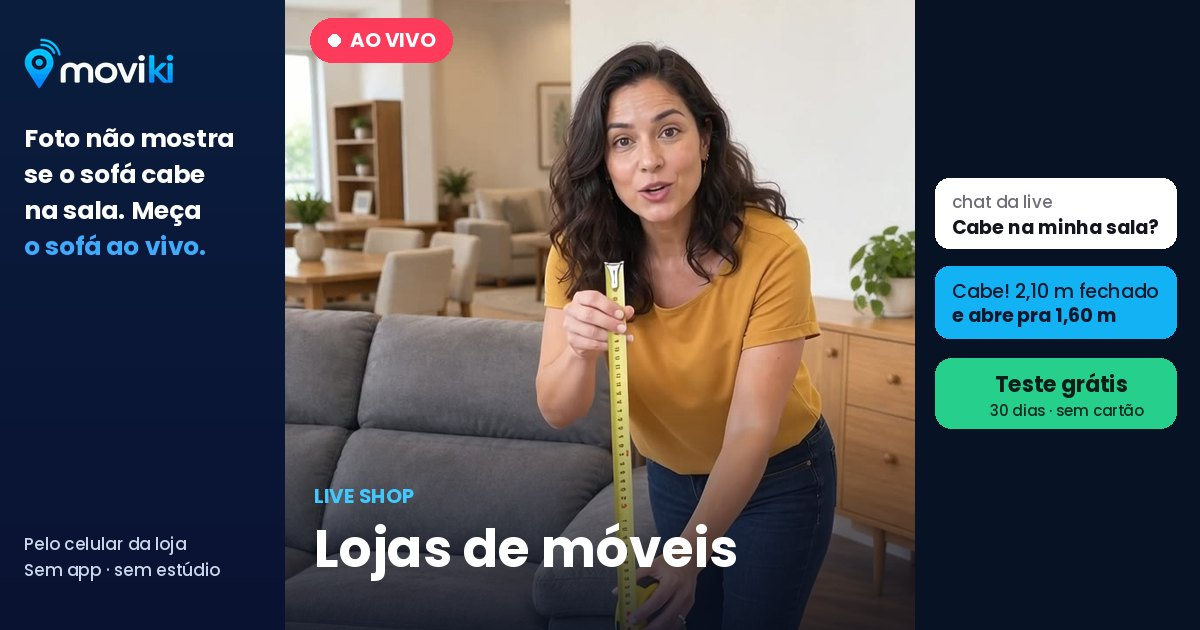
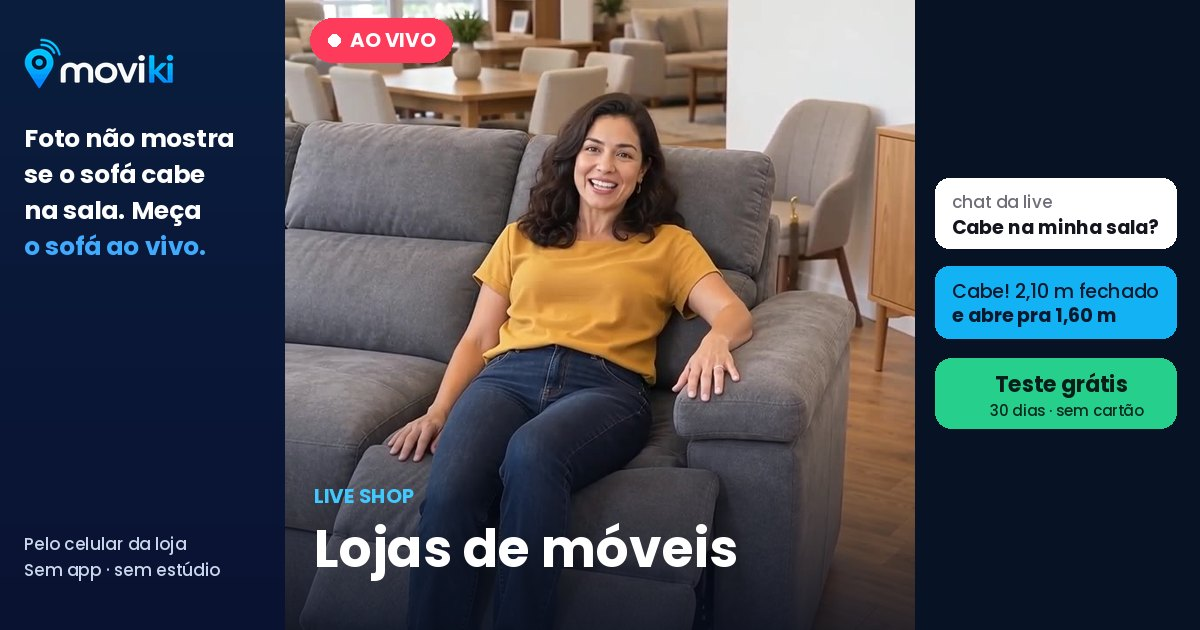
Miniatura do WhatsApp de moveis: vendedora sentada no sofa; V novo para recarregar
Claude-Session: https://claude.ai/code/session_012QhwpiN4n1rfdfoaoV4iks

diff --git a/api/aovivo-og.js b/api/aovivo-og.js
@@ -1,6 +1,7 @@
 /*!
- * MOVIKI api/aovivo-og.js | versao 2026-11-05-og-moveis | repo: moviki (site publico)
- * 2026-11-05: ramo moveis (og/aovivo/moveis.jpg).
+ * MOVIKI api/aovivo-og.js | versao 2026-11-05-og-moveis2 | repo: moviki (site publico)
+ * 2026-11-05 (noite): miniatura nova de moveis (vendedora sentada no sofa; a da trena foi reprovada) e V novo para o WhatsApp buscar a imagem de novo.
+ * Antes: 2026-11-05-og-moveis (ramo moveis, og/aovivo/moveis.jpg).
  * Antes: 2026-11-05-og-bolsas (ramo bolsas); 2026-10-29-og-hamburgueria; 2026-10-16-og-parceiro; antes 2026-10-16-og-ramos.
  *
  * POR QUE EXISTE
@@ -31,7 +32,7 @@ const fs = require('fs');
 const path = require('path');
 const R=[{"k":"farmacia","a":["farm","drog"],"s":"Para farmácias e drogarias","h":["A rede grande abriu na esquina.","Seu cliente de sempre ","volta pela live","."]},{"k":"perfumaria","a":["perfum"],"s":"Para perfumarias","h":["Perfume não tem cheiro na foto.","Ele tem ","a sua voz, ao vivo","."]},{"k":"cosmeticos","a":["cosmet","beleza","maquiag"],"s":"Para lojas de cosméticos e perfumaria","h":["Sua cliente já assiste live de maquiagem.","Que seja ","a da sua loja","."]},{"k":"boutique","a":["boutique"],"s":"Para boutiques de bairro","h":["Arara cheia de peça nova e a rua vazia.","Suas clientes ","estão no celular","."]},{"k":"brecho","a":["brecho"],"s":"Para brechós","h":["Peça única na arara.","Mostre ao vivo e ","quem pagar primeiro leva","."]},{"k":"lingerie","a":["linger","intim","pijam"],"s":"Para lojas de moda íntima","h":["Presente de Réveillon, peça no cabide.","Mostre ","o tecido de perto, ao vivo","."]},{"k":"moda-fitness","a":["legging","academ"],"s":"Para lojas de moda fitness","h":["Tecido que só convence de perto.","Mostre ","a costura ao vivo","."]},{"k":"moda-infantil","a":[],"s":"Para lojas de moda infantil","h":["Roupa de festa infantil só vende no provador.","Mostre ","a peça aberta, ao vivo","."]},{"k":"moda-praia","a":["praia","biquin","bikin"],"s":"Para lojas de moda praia","h":["Verão chegando e a moda praia na arara.","Mostre ","a estampa ao vivo","."]},{"k":"moda-masculina","a":["masculin"],"s":"Para lojas de moda masculina","h":["Camisa boa na arara e a loja sem movimento.","Seu cliente de sempre ","está no celular","."]},{"k":"moda","a":["moda","roupa","vestu"],"s":"Para lojas de moda","h":["O corredor anda vazio no meio da semana.","Sua cliente está ","no celular, no sofá","."]},{"k":"suplementos","a":["suplement","fitness","nutri","whey"],"s":"Para lojas de suplementos","h":["Seu cliente compara sabor e preço no celular.","Mostre ","o pote ao vivo","."]},{"k":"pet","a":["pet"],"s":"Para pet shops","h":["O tutor está no sofá, com o pet no colo.","Mostre ","a roupinha ao vivo","."]},{"k":"brinquedos","a":["brinq"],"s":"Para lojas de brinquedos","h":["Brinquedo parado na prateleira.","Mostre ele ","funcionando, ao vivo","."]},{"k":"bebe","a":["bebe","infantil","kids"],"s":"Para lojas de bebê e infantil","h":["Quem monta o enxoval pesquisa pelo celular.","Mostre ","o tecido ao vivo","."]},{"k":"calcados","a":["calcad","sapat"],"s":"Para lojas de calçados","h":["Chegou a numeração que faltava.","Avise ","ao vivo","."]},{"k":"esportes","a":["esport","tenis"],"s":"Para lojas de calçados e esportes","h":["Tênis parado na vitrine.","Seu cliente está ","procurando no celular","."]},{"k":"hamburgueria","a":["hamburg","burg","smash"],"s":"Para hamburguerias","h":["Hambúrguer bonito na chapa e ninguém vê.","Mostre ","o lanche saindo, ao vivo","."]},{"k":"acai","a":["acai","lanch","sorvet"],"s":"Para açaí e lanchonetes","h":["O aplicativo leva uma fatia de cada pedido.","Venda ","direto, ao vivo","."]},{"k":"confeitaria","a":["confeit","doceria","bolo"],"s":"Para confeitarias","h":["O bolo mais bonito do bairro.","Mostre ","a fatia ao vivo","."]},{"k":"acessorios-celular","a":["acessorio","celular","capinha"],"s":"Para lojas de acessórios de celular","h":["Ele vê a capinha no balcão e compra pela internet.","Venda ","antes, ao vivo","."]},{"k":"semijoias","a":["semijoia","joia","relog"],"s":"Para lojas de semijoias","h":["Presente de Natal escolhido pelo celular.","Que seja ","na sua loja, ao vivo","."]},{"k":"bijuteria","a":["bijut"],"s":"Para lojas de bijuteria e acessórios","h":["Ninguém entra pra ver o brilho de perto.","Leve ","o brilho até ela","."]},{"k":"bolsas","a":["bolsa","mochil"],"s":"Para lojas de bolsas","h":["Bolsa na foto não mostra o que cabe dentro.","Abra ","a bolsa ao vivo","."]},{"k":"autopecas","a":["autopeca","autopecas","motopeca","pecas"],"s":"Para lojas de autopeças","h":["Três ligações pra saber se tem a peça.","Mostre ","na mão, ao vivo","."]},{"k":"sertanejos","a":["sertanej","nordestin","regionai"],"s":"Para produtos sertanejos","h":["O supermercado agora vende queijo coalho.","Seu freguês de sempre ","compra pela live","."]},{"k":"emporio","a":["emporio","queij","frios"],"s":"Para empórios","h":["Cesta de Natal montada. Pedido por telefone.","Monte ","a cesta ao vivo","."]},{"k":"naturais","a":["natura","granel"],"s":"Para empórios de produtos naturais","h":["Chegou novidade no granel.","Conte ","ao bairro inteiro, ao vivo","."]},{"k":"moveis","a":["movei","movele","sofa","estofad","colcho"],"s":"Para lojas de móveis","h":["Foto não mostra se o sofá cabe na sala.","Meça ","o sofá ao vivo","."]},{"k":"utilidades","a":["utilid","cozinh"],"s":"Para lojas de utilidades","h":["Panela boa na prateleira do fundo.","Traga ela ","para a frente, ao vivo","."]},{"k":"cama-mesa-banho","a":["cama","banho","lencol"],"s":"Para lojas de cama, mesa e banho","h":["O toque do lençol não passa na foto.","Mostre ","o tecido de perto, ao vivo","."]},{"k":"acougue","a":["acoug","carne","churras"],"s":"Para açougues e casas de carnes","h":["Sábado de churrasco. Pedido só no balcão.","Monte ","o kit ao vivo","."]},{"k":"cabelo","a":["cabel","aplique","peruc"],"s":"Para lojas de cabelo e apliques","h":["Cor de cabelo que a foto muda.","Mostre ","o tom ao vivo","."]},{"k":"chocolateria","a":["chocolat","bombon","trufa"],"s":"Para chocolaterias","h":["Chocolate artesanal que o bairro nem conhece.","Mostre ","o recheio ao vivo","."]},{"k":"eletroportateis","a":["eletropor","eletrodom","airfryer","fritadeir"],"s":"Para lojas de eletroportáteis","h":["Air fryer na vitrine e o cliente no app.","Ligue ","o aparelho ao vivo","."]},{"k":"festa","a":["festa","balao","baloe"],"s":"Para lojas de artigos de festa","h":["Réveillon chegando e a decoração parada.","Mostre ","o kit montado, ao vivo","."]},{"k":"floricultura","a":["floric","flores","buque","arranjo"],"s":"Para floriculturas","h":["Arranjo pronto esperando cliente.","Mostre ","a flor de perto, ao vivo","."]},{"k":"games","a":["game","informat","periferic"],"s":"Para lojas de games e informática","h":["Teclado que ele só testa no vídeo dos outros.","Teste ","ao vivo, na sua loja","."]},{"k":"padaria","a":["padar","panific","panetone","rabanada"],"s":"Para padarias","h":["Pão saindo às 17h e só o vizinho sabe.","Mostre ","a fornada ao vivo","."]},{"k":"presentes","a":["present","lembranc"],"s":"Para lojas de presentes","h":["Dezembro: fila só na véspera.","Venda ","o mês inteiro, ao vivo","."]},{"k":"otica","a":["otica","oculos"],"s":"Para óticas","h":["Óculos de sol que só se prova na loja.","Prove ","a armação ao vivo","."]}];
 const BASE = 'https://www.moviki.com.br';
-const V = '20261016';
+const V = '20261105';
 let HTML = null;
 function esc(s) {
   return String(s).replace(/&/g, '&amp;').replace(/</g, '&lt;').replace(/>/g, '&gt;').replace(/"/g, '&quot;');

diff --git a/live-shop-ramos/moveis.html b/live-shop-ramos/moveis.html
@@ -25,14 +25,14 @@
 <meta property="og:url" content="https://www.moviki.com.br/live-shop/moveis">
 <meta property="og:title" content="Live shop para lojas de móveis, pelo celular">
 <meta property="og:description" content="Live shop para loja de móveis: meça o sofá com a trena na frente da câmera, mostre o tecido de perto e responda se cabe na sala. Sem app e sem comissão do Moviki. 30 dias grátis.">
-<meta property="og:image" content="https://www.moviki.com.br/og/aovivo/moveis.jpg">
+<meta property="og:image" content="https://www.moviki.com.br/og/aovivo/moveis.jpg?v=20261105b">
 <meta property="og:image:width" content="1200">
 <meta property="og:image:height" content="630">
 <meta property="og:image:alt" content="Live shop para lojas de móveis no Moviki. Cena ilustrativa.">
 <meta name="twitter:card" content="summary_large_image">
 <meta name="twitter:title" content="Live shop para lojas de móveis, pelo celular">
 <meta name="twitter:description" content="Live shop para loja de móveis: meça o sofá com a trena na frente da câmera, mostre o tecido de perto e responda se cabe na sala. Sem app e sem comissão do Moviki. 30 dias grátis.">
-<meta name="twitter:image" content="https://www.moviki.com.br/og/aovivo/moveis.jpg">
+<meta name="twitter:image" content="https://www.moviki.com.br/og/aovivo/moveis.jpg?v=20261105b">
 <link rel="icon" href="/favicon512.png">
 <link rel="preload" as="image" href="/ramos/moveis.webp?v=20261105" type="image/webp" fetchpriority="high">
 <script src="/mvmetrica.js"></script>
@@ -439,7 +439,7 @@ footer a{text-decoration:underline}
   }catch(e){}
 })();
 </script>
-<script>window.MOVIKI_VERSAO='2026-11-05-moveis';</script><!-- 2026-11-05-moveis: pagina do ramo moveis, montada sobre live-shop-ramos/bolsas.html 2026-11-05-bolsas (mesmo estilo, planos e rodape). -->
+<script>window.MOVIKI_VERSAO='2026-11-05-moveis2';</script><!-- 2026-11-05-moveis2: miniatura nova (og:image ?v=20261105b). Antes 2026-11-05-moveis: pagina do ramo moveis, montada sobre live-shop-ramos/bolsas.html 2026-11-05-bolsas (mesmo estilo, planos e rodape). -->
 <script>
 /* MEDICAO: page_view e cta_painel saem do mvmetrica.js. data-ev = nome do CTA; o evento e sempre cta_click. */
 (function(){
